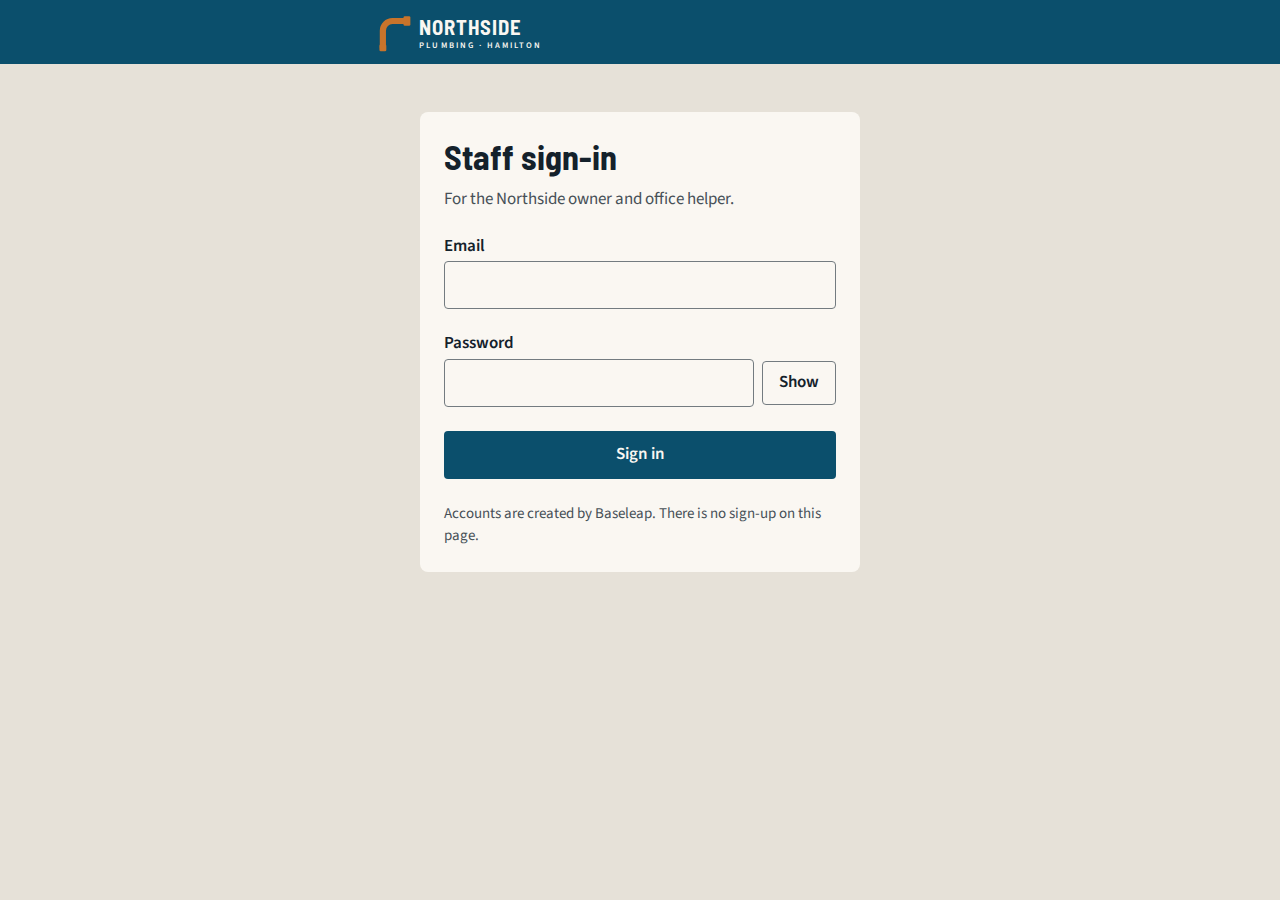
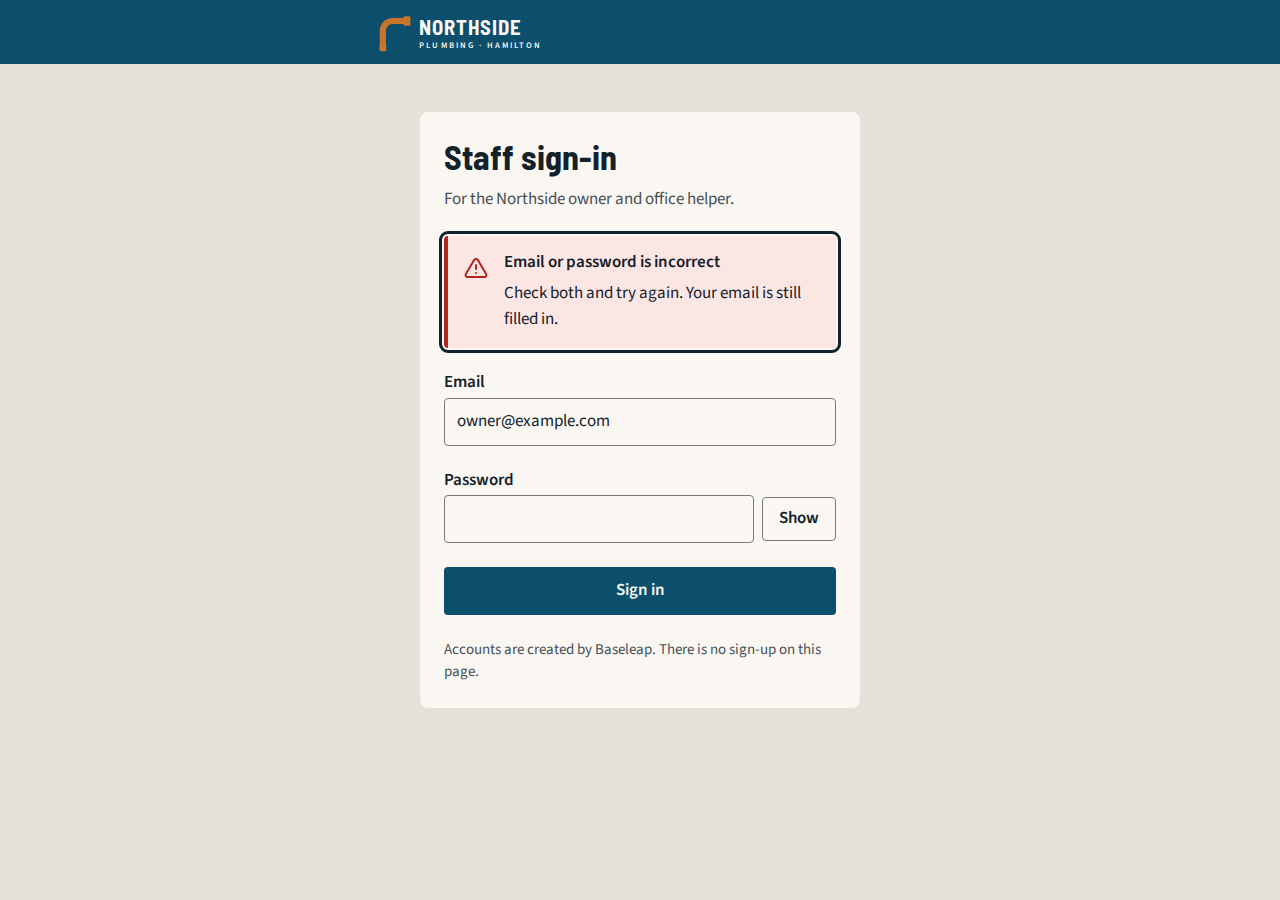
STEP FE2: Staff shell and Requests tab: SCR-03 sign-in, tab navigation, SCR-04 Requests, SCR-06 detail (both tabs), SCR-07 weekly strip, SCR-08 photo viewer

Changed region(s): [[0.3125, 0.2489, 0.6875, 0.8089]]

diff --git a/src/components/staff/photo-viewer.test.tsx b/src/components/staff/photo-viewer.test.tsx
@@ -60,7 +60,7 @@ function gallery(list: Photo[]) {
   return renderStaff(<PhotoGallery requestId="req" reference="NQ-7K3M9P" name="Dana Whitfield" photos={list} />);
 }
 
-const thumb = (n: number) => screen.getByRole('button', { name: `Open photo ${n} of 3 at full size` });
+const thumb = (n: number) => screen.getByRole('button', { name: `View photo ${n} of 3 at full size` });
 const dialog = () => screen.getByRole('dialog');
 const viewerImage = () => within(dialog()).queryByRole('img') as HTMLImageElement | null;
 
@@ -77,10 +77,10 @@ describe('SCR-06 photo thumbnails', () => {
     }
   });
 
-  // BUG-QA1-5: the wording of design-specs "PhotoThumb" ("Open photo 2 of 3 at full size") and of the SCR-06 mockup tile ("Photo 2")
-  it('are named "Open photo N of 3 at full size" and show "Photo N" on the tile; the name contains the visible words (WCAG 2.5.3)', async () => {
+  // BUG-QA1-5, ledger ruling 2026-11-24: the tile shows "View photo N" and the name is "View photo N of 3 at full size"
+  it('are named "View photo N of 3 at full size" and show "View photo N" on the tile; the name contains the visible words (WCAG 2.5.3)', async () => {
     const { container } = gallery(photos(3));
-    expect(thumb(2)).toHaveTextContent('Photo 2');
+    expect(thumb(2)).toHaveTextContent('View photo 2');
     await expectLabelsContainVisibleText(container);
     expect(screen.getByRole('heading', { name: /Photos/ })).toHaveTextContent('Photos (3)');
     await expectNoAxeViolations(container);
@@ -91,7 +91,7 @@ describe('SCR-06 photo thumbnails', () => {
     const { container } = gallery(photos(3));
     for (const image of Array.from(document.querySelectorAll('img'))) fireEvent.error(image);
     expect(await screen.findAllByText('Photo unavailable')).toHaveLength(3);
-    expect(screen.queryAllByRole('button', { name: /Open photo/ })).toHaveLength(0);
+    expect(screen.queryAllByRole('button', { name: /View photo/ })).toHaveLength(0);
     expect(screen.getByRole('heading', { name: /Photos/ })).toBeInTheDocument();
     expect(screen.getByText(/The rest of the request is still shown/)).toBeInTheDocument();
     await expectNoAxeViolations(container);
@@ -109,14 +109,14 @@ describe('SCR-06 photo thumbnails', () => {
     gallery(photos(3));
     fireEvent.error(document.querySelectorAll('img')[1] as HTMLImageElement);
     expect(await screen.findAllByText('Photo unavailable')).toHaveLength(1);
-    expect(screen.getAllByRole('button', { name: /Open photo/ })).toHaveLength(2);
+    expect(screen.getAllByRole('button', { name: /View photo/ })).toHaveLength(2);
     await waitFor(() => expect(document.querySelectorAll('img')).toHaveLength(3)); // the fresh URL replaced the failed one
     expect(screen.queryByText('Photo unavailable')).toBeNull();
   });
 
   it('a photo whose URL could not be signed says "Photo unavailable" and cannot be opened', () => {
     gallery([...photos(2), { position: 3, content_type: 'image/jpeg', url: null, expires_at: null }]);
-    expect(screen.getAllByRole('button', { name: /Open photo/ })).toHaveLength(2);
+    expect(screen.getAllByRole('button', { name: /View photo/ })).toHaveLength(2);
     expect(screen.getByText('Photo unavailable')).toBeInTheDocument();
   });
 });
@@ -209,7 +209,7 @@ describe('SCR-08 Photo viewer', () => {
 
   it('a photo with no URL opens straight to "Photo unavailable", and the others still work', () => {
     gallery([photos(3)[0] as Photo, { position: 2, content_type: 'image/jpeg', url: null, expires_at: null }, photos(3)[2] as Photo]);
-    fireEvent.click(screen.getAllByRole('button', { name: /Open photo/ })[0] as HTMLElement);
+    fireEvent.click(screen.getAllByRole('button', { name: /View photo/ })[0] as HTMLElement);
     fireEvent.click(within(dialog()).getByRole('button', { name: 'Next photo' }));
     expect(within(dialog()).getByRole('alert')).toHaveTextContent('Photo unavailable');
     fireEvent.click(within(dialog()).getByRole('button', { name: 'Next photo' }));

diff --git a/src/components/staff/copy.ts b/src/components/staff/copy.ts
@@ -119,10 +119,11 @@ export const staffCopy = {
     photosHint: 'Tap a photo to see it at full size. Only signed-in staff can open photos.',
     photosUnavailableHint: 'The rest of the request is still shown. Reload the page to try the photos again.',
     photoUnavailable: 'Photo unavailable',
-    // design-specs "PhotoThumb" and the SCR-06 mockup: the tile shows "Photo 2" and the button is named "Open photo 2 of 3
-    // at full size", which contains the visible words (WCAG 2.5.3 Label in Name)
-    viewPhoto: (position: number) => `Photo ${position}`,
-    viewPhotoLabel: (position: number, total: number) => `Open photo ${position} of ${total} at full size`,
+    // Ledger ruling 2026-11-24 (matches the plan-approved check, FE1 and the spec being updated): the tile shows "View photo 2"
+    // and the button is named "View photo 2 of 3 at full size". The visible words come first, so the name contains them
+    // (WCAG 2.5.3 Label in Name)
+    viewPhoto: (position: number) => `View photo ${position}`,
+    viewPhotoLabel: (position: number, total: number) => `View photo ${position} of ${total} at full size`,
     quote: 'Your quote',
     quoteEmpty: 'No price or note yet. Both are optional, and you can save either one alone.',
     price: 'Price quoted, in Canadian dollars',

diff --git a/src/components/staff/request-detail.test.tsx b/src/components/staff/request-detail.test.tsx
@@ -88,7 +88,7 @@ describe('SCR-06 Request detail', () => {
       expect(screen.getByText('Within the next few days')).toBeInTheDocument();
       expect(screen.getByText('Kitchen tap drips constantly and the cabinet under it is wet')).toBeInTheDocument();
       expect(screen.getByText('Not updated yet')).toBeInTheDocument();
-      expect(screen.getAllByRole('button', { name: /^Open photo \d of 3 at full size$/ })).toHaveLength(3);
+      expect(screen.getAllByRole('button', { name: /^View photo \d of 3 at full size$/ })).toHaveLength(3);
       expect(screen.getByRole('button', { name: 'Save price and note' })).toBeInTheDocument();
       await expectNoAxeViolations(container);
     });

diff --git a/src/components/staff/label-in-name.test.tsx b/src/components/staff/label-in-name.test.tsx
@@ -39,7 +39,7 @@ describe('label in name check (WCAG 2.5.3)', () => {
     await expectLabelsContainVisibleText(container);
   });
 
-  it('passes on a photo thumbnail named as design-specs words it, and fails on the old tile text against it', async () => {
+  it('passes on a photo thumbnail named "View photo N of 3 at full size", and fails on the old "Open photo" name against the tile text', async () => {
     const good = render(<button aria-label={staffCopy.detail.viewPhotoLabel(2, 3)}>{staffCopy.detail.viewPhoto(2)}</button>);
     await expectLabelsContainVisibleText(good.container);
     good.unmount();

diff --git a/.baseleap/reports/FE2.md b/.baseleap/reports/FE2.md
@@ -155,3 +155,23 @@ Exact result: `12 view(s) of 6 screen(s)`, 4 problems, all `console error: verif
 - The designer: Move to wording in the spec (above); QA: the touch-drag test must start on the grip, and the photo design-wording test now matches.
 - FE3: grip display below 1280 px (above), only if finger drag is wanted on phones and tablets.
 - `CONTRACT QUESTION` 1 from attempt 1 (proxy in mock mode) is now the live blocker for `verify-ui` on SCR-04 and SCR-06. No new contract question.
+
+## Attempt 2b: View photo wording (2026-11-24)
+**Status:** done. Per the ledger ruling of 2026-11-24: the photo tile shows "View photo N" and its accessible name is "View photo N of 3 at full size" (visible words first, so label-in-name holds). The Move to button keeps "Move to another status, NQ-...". The photo viewer dialog title ("Photo N of 3") is unchanged. Nothing committed by me (no git).
+
+**Files changed**
+- `src/components/staff/copy.ts`: `detail.viewPhoto` now `View photo N`; `detail.viewPhotoLabel` now `View photo N of T at full size`; comment updated.
+- `src/components/staff/photo-viewer.test.tsx`: thumb lookup, the tile wording test, and the `/Open photo/` queries now use `View photo`.
+- `src/components/staff/request-detail.test.tsx`: the three-tile assertion now matches `/^View photo \d of 3 at full size$/`.
+- `src/components/staff/label-in-name.test.tsx`: the photo case keeps both checks (new wording passes; the old "Open photo" name against "View photo 2" text still fails), retitled.
+- `src/components/staff/photo-gallery.tsx` needed no change (it reads both strings from copy).
+
+**Commands run (each with the `cd <lane> &&` prefix)**
+- `npm run typecheck` -> exit 0.
+- `npm run lint` -> exit 0 (0 errors; the same 2 warnings in `scripts/`, not mine).
+- `npx vitest run src/components/staff --passWithNoTests=false` -> exit 0, 11 files, 184 tests (label-in-name and axe tests included).
+- `npm run build` -> exit 0.
+- `node scripts/check-code-guards.mjs generated` -> exit 0 ("OK").
+- `verify-ui` not run, as instructed. Staff-screen visual evidence comes from QA on the staging preview (FE2V).
+
+**Not mine:** QA e2e tests in `tests/e2e/**` that look for "Open photo" or "Photo N" tiles, if any, need the new wording (not searched, outside my paths).
